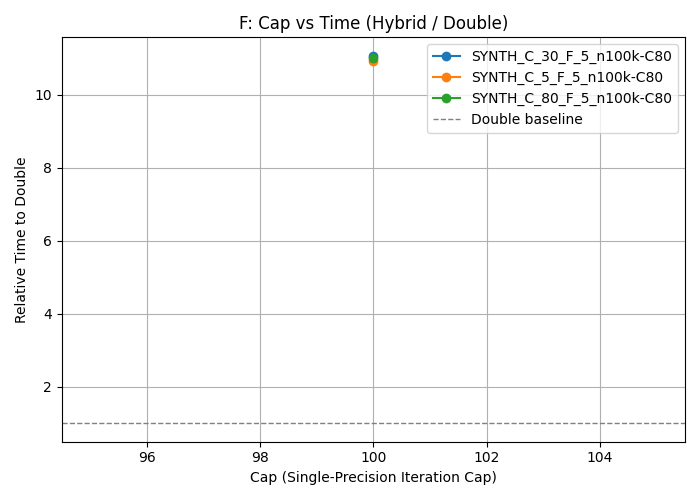
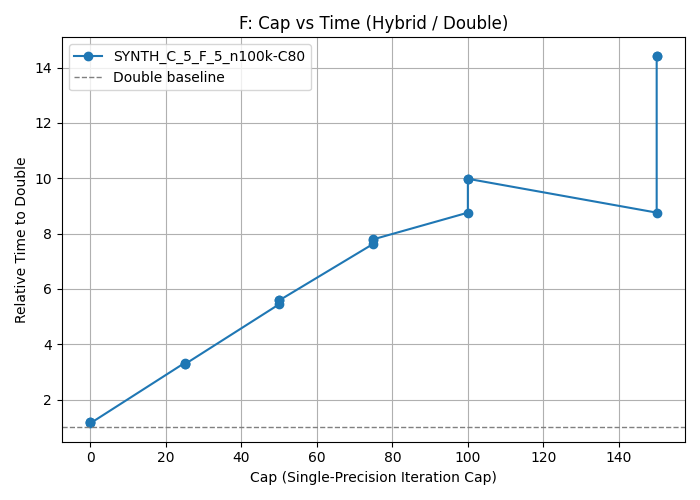
push changes

diff --git a/datasets/utils.py b/datasets/utils.py
@@ -30,8 +30,8 @@ def load_susy(n_rows=1_000_000):
 synth_specs = [
     # number of samples; number of features, number of clusters, random seeds
     ("SYNTH_C_5_F_5_n100k", 500_000, 5,  5, 0),
-    ("SYNTH_C_80_F_5_n100k", 10000_00, 5, 80, 1),
-    ("SYNTH_C_30_F_5_n100k", 10000_00, 5, 40, 1),
+    #("SYNTH_C_80_F_5_n100k", 10000_00, 5, 80, 1),
+    # ("SYNTH_C_30_F_5_n100k", 10000_00, 5, 40, 1),
     # ("SYNTH_C_5_F_50_n100k", 10000_00, 100, 5, 1),
 ]
 

diff --git a/kmeans_main.py b/kmeans_main.py
@@ -60,6 +60,7 @@ config = {
     "mb_iter_E": 100, "mb_batch_E": 2048, "max_refine_iter_E": 100,
 
     # --- F (Per‑cluster Mixed) : sweep these ---
+    "max_iter_F": 300,
     "F_cap_grid":       [0, 25, 50, 75, 100, 150],  # Phase‑1 cap
     "F_tol_single_grid":[1e-2, 1e-3, 5e-4],         # stability tol (log-x)
     "tol_double_F":     1e-4,
